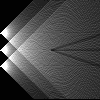
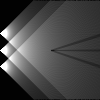
fix two bugs in algorithm

diff --git a/src/main/java/com/revjet/raycasting2d/LightingBenchmark.java b/src/main/java/com/revjet/raycasting2d/LightingBenchmark.java
@@ -1,7 +1,6 @@
 package com.revjet.raycasting2d;
 
 import org.openjdk.jmh.annotations.*;
-import org.openjdk.jmh.profile.LinuxPerfAsmProfiler;
 import org.openjdk.jmh.profile.LinuxPerfNormProfiler;
 import org.openjdk.jmh.runner.Runner;
 import org.openjdk.jmh.runner.RunnerException;
@@ -24,20 +23,24 @@ import java.util.concurrent.TimeUnit;
 //    jvmArgs = "-Xms2048m"
         jvmArgs = {"-Xms2048m", "-XX:+UseSuperWord", "-XX:+UnlockDiagnosticVMOptions"
 //                , "-XX:+PrintAssembly", "-XX:+PrintNMethods"
-}
+        }
 //    jvmArgs = {"-Xms2048m", "-XX:+UnlockDiagnosticVMOptions", "-XX:+TraceClassLoading", "-XX:+LogCompilation"}
 )
 @State(Scope.Thread)
 public class LightingBenchmark {
 
-    int w = 100;
-    int h = 100;
+
+    @Param({/*"80", */"100"})
+    int w;
+    int h = w;
+
     int[][] objects;
 
     Lighting l;
 
     @Setup
     public void setup() {
+        h = w;
         objects = new int[w][h];
         for (int x = 0; x < w; x++) {
             Arrays.fill(objects[x], 1);

diff --git a/src/main/java/com/revjet/raycasting2d/Lighting.java b/src/main/java/com/revjet/raycasting2d/Lighting.java
@@ -78,7 +78,7 @@ public class Lighting {
                     int fb = (int) (t.b);
                     int fe = fb + 1;
                     lightY[fb] += applyLight(t, fb, y, td);
-                    lightY[fb] += applyLight(t, fe, y, td);
+                    lightY[fe] += applyLight(t, fe, y, td);
 
                     if (objectsY[fb] == 2) {
                         cutInterval(t, fb);
@@ -90,7 +90,7 @@ public class Lighting {
                 if (y < h / 2 || a % 2 == 0) {
                     for (x = 0; x < w; x++) {
                         if (objectsY[x] == 1) { // light
-                            lightY[x] += startIntensity;
+//                            lightY[x] += startIntensity;
 //                            tmpNew[tmpNewIntN++] = new T(x, (y < h / 2 ? startIntensity : startIntensity * 2));
                             lightY[x] += startIntensity;
 //                            tmpNew[tmpNewIntN++] = new T(x, (y < h / 2 ? startIntensity : startIntensity * 2));
